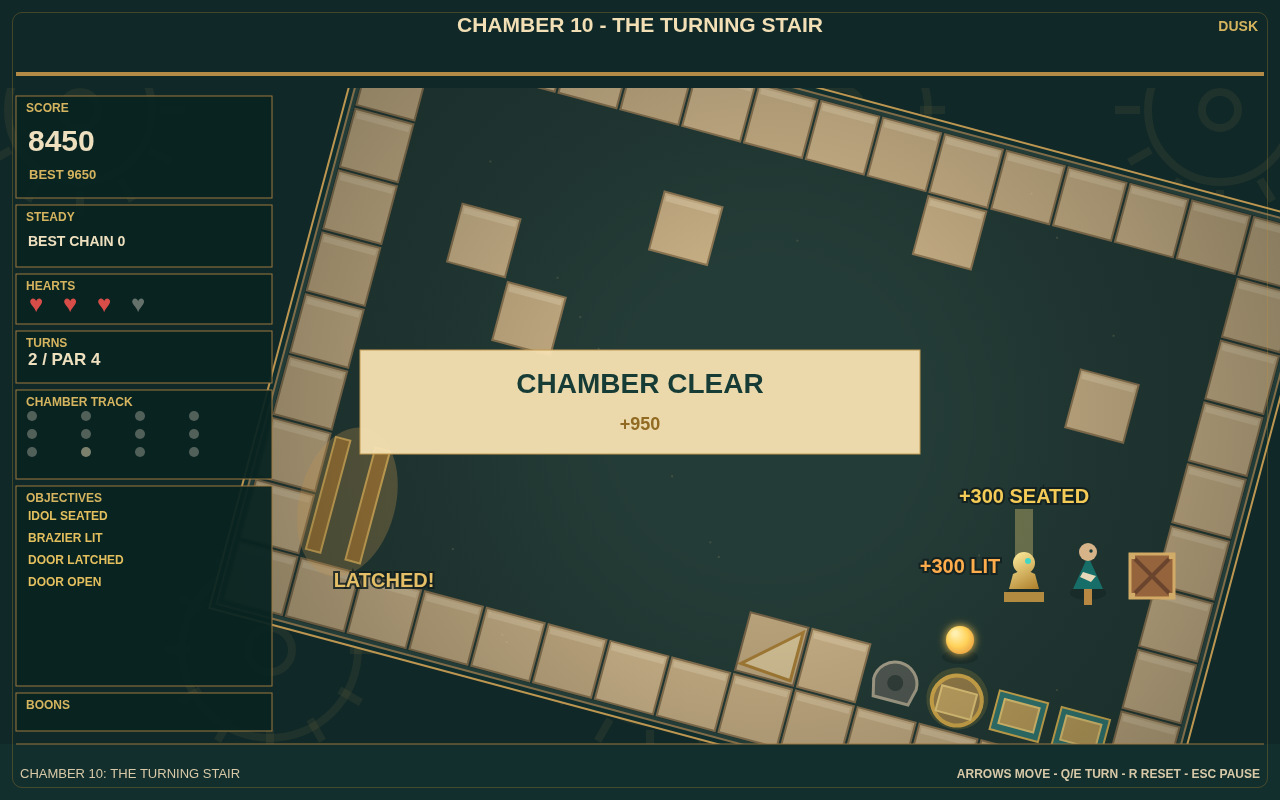
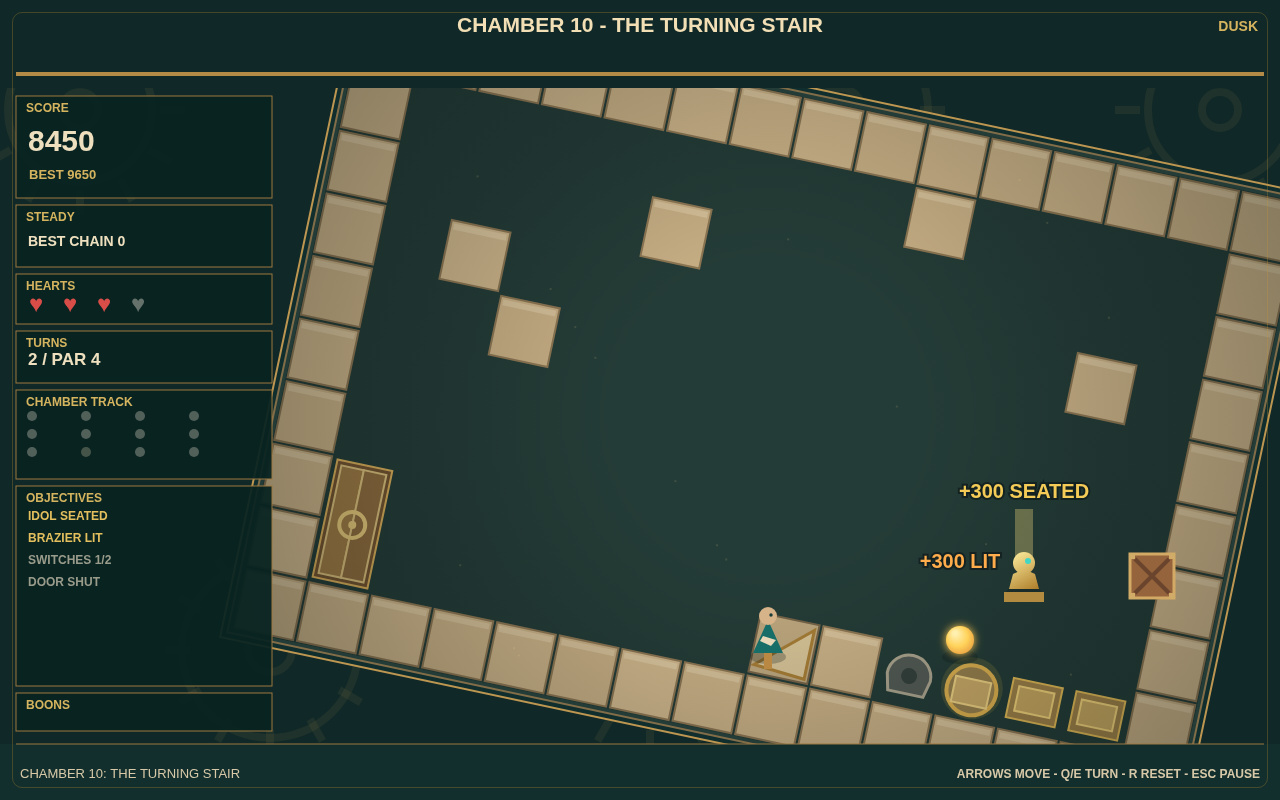
Cover staging: mid-play decision point (symphony landed, door still shut)

diff --git a/game/src/testhook.js b/game/src/testhook.js
@@ -11,37 +11,35 @@ const playActions = (state, actions) => { for (const action of actions) applyAct
 
 function stagePlay(state, stage) {
   loadChamber(state, 9);
-  playActions(state, CHAMBERS[9].solution.filter(action => action.t === 'R' || action.t === 'L' || action.t === '>'));
+  // Mid-play staging (improvement round 2): the two-turn symphony has just
+  // landed — Idol seated, brazier lit, crate on the first switch — but the
+  // door is still shut and Nilo has not yet crossed to the second switch.
+  // A live decision point, not an aftermath: no clear banner, goals half met.
+  playActions(state, [{ t: 'R' }, { t: 'L' }]);
   state.events.length = 0;
   state.score = 8450;
-  state.banner = 'win';
-  state.lastClearScore = 950;
+  state.banner = null;
   state.mode = 'play';
-  globalThis.__TK_ANGLE = 15;
+  globalThis.__TK_ANGLE = 12;
   const point = (kind, fallback) => {
     const e = state.entities.find(x => x.kind === kind);
     return boardPoint(state, e?.c ?? fallback[0], e?.r ?? fallback[1]);
   };
-  const crate = point('crate', [13, 8]), hero = point('hero', [3, 8]);
-  spawnDust(stage, crate.x, crate.y, 16, '#cbb98e');
-  spawnDust(stage, hero.x, hero.y + 18, 12, '#cbb98e');
-  spawnStreak(stage, hero.x - 18, hero.y, 16, 0);
-  const idol = point('idol', [3, 3]);
-  const orb = point('orb', [5, 1]);
-  const doorCell = state.tiles.flatMap((row, r) => row.map((tile, c) => tile === 5 ? { c, r } : null)).find(Boolean) || { c: 1, r: 8 };
-  const door = boardPoint(state, doorCell.c, doorCell.r);
+  const idol = point('idol', [11, 7]), orb = point('orb', [10, 8]), crate = point('crate', [13, 7]);
   spawnFloater(stage, idol.x, idol.y - 44, '+300 SEATED', '#f4cb57');
   spawnFloater(stage, orb.x, orb.y - 38, '+300 LIT', '#ffad4c');
-  spawnFloater(stage, door.x, door.y - 24, 'LATCHED!', '#e4bf67');
+  spawnDust(stage, idol.x, idol.y + 18, 12, '#cbb98e');
+  spawnDust(stage, crate.x, crate.y + 18, 10, '#cbb98e');
   const heroEntity = state.entities.find(e => e.id === state.heroId);
   if (heroEntity) {
-    const pos = boardPoint(state, heroEntity.c, heroEntity.r);
-    stage.entityPos.set(heroEntity, { x: pos.x - 30, y: pos.y });
-    setInterval(() => {
+    spawnStreak(stage, point('hero', [7, 8]).x - 20, point('hero', [7, 8]).y, 15, 0);
+    const applyOffset = () => {
       if (window.__TK?.state !== state) return;
       const p = boardPoint(state, heroEntity.c, heroEntity.r);
-      stage.entityPos.set(heroEntity, { x: p.x - 30, y: p.y });
-    }, 30);
+      stage.entityPos.set(heroEntity, { x: p.x - 28, y: p.y });
+    };
+    applyOffset();
+    setInterval(applyOffset, 30);
   }
 }
 
